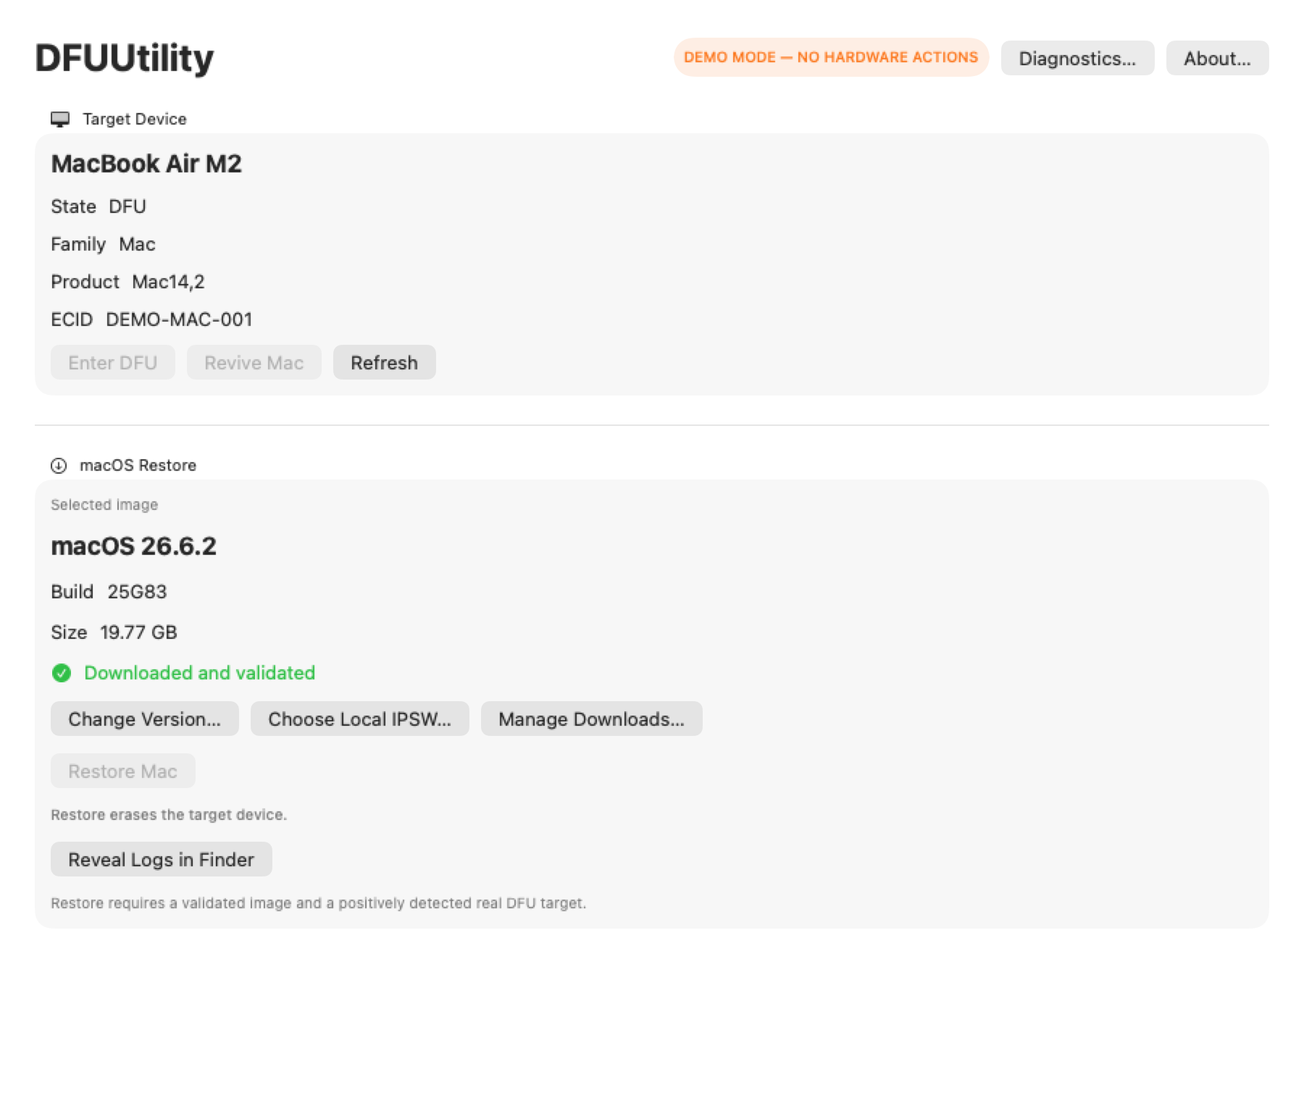
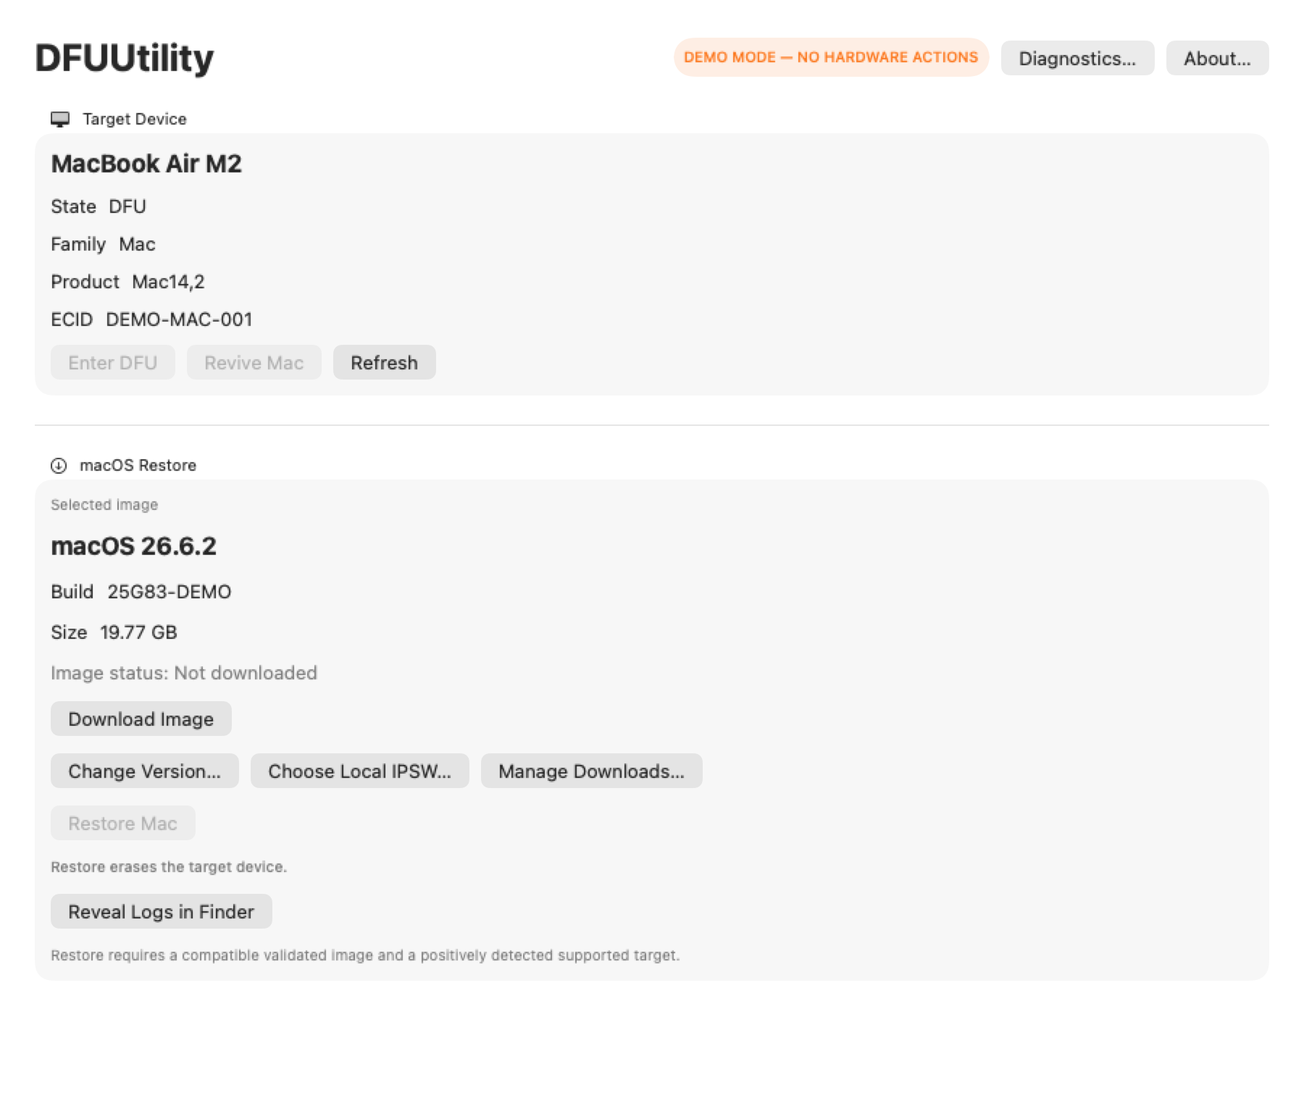
Add multi-device workflows and refresh demo screenshots

diff --git a/Sources/DFUAppSupport/AppModel.swift b/Sources/DFUAppSupport/AppModel.swift
@@ -317,6 +317,9 @@ public final class AppModel: ObservableObject {
     public var targetRestorePlatform: RestorePlatform { target?.family.restorePlatform ?? browsePlatform }
     public var restoreSectionTitle: String { isFirmwareLibraryMode ? "Firmware Library" : "\(targetRestorePlatform.displayName) Restore" }
     public var manageDownloadsAvailable: Bool { true }
+    public var shouldShowMissingDFUHelperWarning: Bool {
+        !isDemoMode && doctorReport?.status.host.macVDMToolPath == nil
+    }
     private var hasSyntheticProductionIdentity: Bool {
         guard !isDemoMode, let value = target?.ecid?.uppercased() else { return false }
         return value == "TEST" || value.hasPrefix("DEMO") || value.hasPrefix("TEST-")
@@ -349,39 +352,42 @@ public final class AppModel: ObservableObject {
     }
 
     private func configureScreenshot(_ scenario: String) {
-        let macRelease = IPSWRelease(version: "26.6.2", build: "25G83", downloadURL: URL(string: "https://updates.cdn-apple.com/demo-mac.ipsw")!, fileSize: 19_772_231_540, supportedDevices: ["Mac14,2"])
-        let iOSRelease = IPSWRelease(platform: .iOS, version: "12.5.8", build: "16H88", downloadURL: URL(string: "https://updates.cdn-apple.com/demo-ios.ipsw")!, fileSize: 4_321_000_000, supportedDevices: ["iPhone7,2"])
-        let iPadRelease = IPSWRelease(platform: .iPadOS, version: "18.7.10", build: "22H374", downloadURL: URL(string: "https://updates.cdn-apple.com/demo-ipados.ipsw")!, fileSize: 7_860_000_000, supportedDevices: ["iPad7,11"])
-        let release = scenario == "firmware-chooser" ? iPadRelease : (scenario == "download-progress" || scenario == "restore-progress" || scenario == "completed-restore" ? iOSRelease : macRelease)
-        let image = URL(fileURLWithPath: "/demo/(release.build)/Restore.ipsw")
-        availableReleases = [release]; selectedRelease = release; imageState = .ready(image); catalogueState = .loaded
-        imageChoices = [.init(release: release, isRecommended: true, cacheState: .downloaded(image), compatibility: .compatible(model: release.supportedDevices[0]))]
+        let macRelease = DemoFirmwareLibrary.catalogueReleases.first { $0.platform == .macOS }!
+        let latestIOS = DemoFirmwareLibrary.catalogueReleases.first { $0.platform == .iOS }!
+        let cachedIOS = DemoFirmwareLibrary.cachedEntries.first { $0.release.platform == .iOS }!.release
         doctorReport = DoctorReport(status: UtilityStatus(host: HostStatus(isAppleSilicon: true, macOSVersion: "26.6.1", macVDMToolPath: URL(fileURLWithPath: "/demo/macvdmtool"), cfgutilPath: URL(fileURLWithPath: "/demo/cfgutil")), targets: []), configuratorPresent: true, cacheDirectory: URL(fileURLWithPath: "/demo/cache"), cacheWritable: true, restoreSupported: true)
         switch scenario {
         case "normal-mac", "normal": targetDevices = [DFUDevice(state: .normal, model: "Mac14,2", ecid: "DEMO-MAC-001")]
         case "mac-dfu", "dfu": targetDevices = [DFUDevice(state: .dfu, model: "Mac14,2", ecid: "DEMO-MAC-001")]
         case "iphone-guided-dfu": targetDevices = [DFUDevice(family: .iPhone, state: .normal, model: "iPhone 6", ecid: "DEMO-PHONE-001", productType: "iPhone7,2")]
-        case "ipad-guided-dfu", "firmware-chooser": targetDevices = [DFUDevice(family: .iPad, state: .normal, model: "iPad (7th generation)", ecid: "DEMO-IPAD-001", productType: "iPad7,11")]
+        case "ipad-guided-dfu": targetDevices = [DFUDevice(family: .iPad, state: .normal, model: "iPad (7th generation)", ecid: "DEMO-IPAD-001", productType: "iPad7,11")]
+        case "firmware-chooser": browsePlatform = .iOS; targetDevices = []
         case "download-progress":
-            targetDevices = [DFUDevice(family: .iPhone, state: .normal, model: "iPhone 6", ecid: "DEMO-PHONE-001", productType: "iPhone7,2")]
-            imageState = .partial(1_850_000_000); downloadState = .downloading(completed: 1_850_000_000, total: 4_321_000_000, bytesPerSecond: 42_600_000)
+            targetDevices = [DFUDevice(family: .iPhone, state: .normal, model: "iPhone 14 Pro", ecid: "DEMO-PHONE-001", productType: "iPhone15,2")]
         case "restore-progress", "progress":
-            targetDevices = [DFUDevice(family: .iPhone, state: .dfu, model: "iPhone 6", ecid: "DEMO-PHONE-001", productType: "iPhone7,2")]
-            restoreState = .running(operation: "Restore", stage: "Installing System", stageIndex: 4, stageTotal: 4, fraction: 0.66)
+            targetDevices = [DFUDevice(family: .iPhone, state: .dfu, model: "iPhone 14 Pro", ecid: "DEMO-PHONE-001", productType: "iPhone15,2")]
         case "completed-restore", "completed":
-            targetDevices = [DFUDevice(family: .iPhone, state: .normal, model: "iPhone 6", ecid: "DEMO-PHONE-001", productType: "iPhone7,2")]
-            restoreState = .completed("Restore completed successfully. Target restarted.")
-        case "manage-downloads":
-            targetDevices = [DFUDevice(state: .normal, model: "Mac14,2", ecid: "DEMO-MAC-001")]
-            managedCacheEntries = [
-                .init(release: macRelease, state: .completeValidated, sizeBytes: macRelease.fileSize!, url: URL(fileURLWithPath: "/demo/cache/25G83/Restore.ipsw")),
-                .init(release: iOSRelease, state: .completeValidated, sizeBytes: iOSRelease.fileSize!, url: URL(fileURLWithPath: "/demo/cache/iOS/16H88/Restore.ipsw")),
-                .init(release: iPadRelease, state: .completeValidated, sizeBytes: iPadRelease.fileSize!, url: URL(fileURLWithPath: "/demo/cache/iPadOS/22H374/Restore.ipsw"))
-            ]
+            targetDevices = [DFUDevice(family: .iPhone, state: .normal, model: "iPhone 14 Pro", ecid: "DEMO-PHONE-001", productType: "iPhone15,2")]
+        case "multiple-devices": targetDevices = []; deviceSessions.configureDemo()
         default: targetDevices = []
         }
+        managedCacheEntries = DemoFirmwareLibrary.cachedEntries
+        validatedCacheEntries = Dictionary(uniqueKeysWithValues: managedCacheEntries.map { (FirmwareReleaseKey($0.release), $0) })
+        catalogueReleases = AppleIPSWService.sortNewestFirst(releasesForCurrentFirmwareContext(DemoFirmwareLibrary.catalogueReleases))
+        rebuildAvailableReleases()
+        if scenario == "download-progress" { selectedRelease = latestIOS }
+        else if scenario == "restore-progress" || scenario == "progress" || scenario == "completed-restore" || scenario == "completed" { selectedRelease = cachedIOS }
+        else { selectedRelease = availableReleases.first ?? macRelease }
+        refreshSelectedCacheState(); refreshImageChoices(); catalogueState = .loaded
+        if scenario == "download-progress" {
+            imageState = .partial(1_850_000_000); downloadState = .downloading(completed: 1_850_000_000, total: latestIOS.fileSize, bytesPerSecond: 42_600_000)
+        } else if scenario == "restore-progress" || scenario == "progress" {
+            restoreState = .running(operation: "Restore", stage: "Installing System", stageIndex: 4, stageTotal: 4, fraction: 0.66)
+        } else if scenario == "completed-restore" || scenario == "completed" {
+            restoreState = .completed("Restore completed successfully. Target restarted.")
+        }
         selectedTargetECID = targetDevices.count == 1 ? targetDevices[0].ecid : nil
-        deviceSessions.reconcile(targetDevices)
+        if scenario != "multiple-devices" { deviceSessions.reconcile(targetDevices) }
     }
 
     public func refreshCatalogue() async {
@@ -625,6 +631,7 @@ public final class AppModel: ObservableObject {
     }
 
     public func cacheRemovalDisabledReason(for entry: ManagedIPSWEntry) -> String? {
+        if isDemoMode { return "Demo firmware is read-only." }
         if case .downloading = downloadState, selectedRelease?.build == entry.release.build && selectedRelease?.platform == entry.release.platform { return "This image is currently downloading." }
         if case .validating = downloadState, selectedRelease?.build == entry.release.build && selectedRelease?.platform == entry.release.platform { return "This image is currently being validated." }
         let operationActive = if case .running = restoreState { true } else if case .reconnecting = restoreState { true } else { false }
@@ -715,6 +722,11 @@ public final class AppModel: ObservableObject {
     }
 
     private func loadManagedCache(knownReleases: [IPSWRelease]) async {
+        if isDemoMode {
+            managedCacheEntries = DemoFirmwareLibrary.cachedEntries
+            validatedCacheEntries = Dictionary(uniqueKeysWithValues: managedCacheEntries.map { (FirmwareReleaseKey($0.release), $0) })
+            return
+        }
         let cache = cache, validator = validator
         managedCacheEntries = (try? await Task.detached { try cache.managedEntries(validator: validator, knownReleases: knownReleases) }.value) ?? []
         validatedCacheEntries = Dictionary(uniqueKeysWithValues: managedCacheEntries.compactMap { entry in

diff --git a/Tests/DFUAppSupportTests/AppModelTests.swift b/Tests/DFUAppSupportTests/AppModelTests.swift
@@ -421,9 +421,58 @@ private let noOpLogger = AppMockLogger()
 }
 
 @Test @MainActor func activeDownloadTaskCancelsCleanly() async throws {
-    let app = AppModel(ipswService: DemoIPSWService(), discovery: AppMockDiscovery(values: []), cache: tempCache(), validator: AppMockValidator(valid: true), diagnostics: AppMockDiagnostics(), restoreEngine: AppMockRestore(), dfuController: AppMockDFU(), operationLogger: noOpLogger, requiresPrivilegedHelperSetup: false, isDemoMode: true)
+    let cache = tempCache()
+    let app = AppModel(ipswService: DemoIPSWService(), discovery: AppMockDiscovery(values: []), cache: cache, validator: AppMockValidator(valid: true), diagnostics: AppMockDiagnostics(), restoreEngine: AppMockRestore(), dfuController: AppMockDFU(), operationLogger: noOpLogger, requiresPrivilegedHelperSetup: false, isDemoMode: true)
     await app.load(); app.beginDownload(); try await Task.sleep(for: .milliseconds(180)); app.cancelDownload(); try await Task.sleep(for: .milliseconds(180))
     #expect(app.downloadState == .cancelled); #expect(app.imageURL == nil)
+    #expect(!FileManager.default.fileExists(atPath: cache.directory.path))
+}
+
+@Test func demoCatalogueCoversEveryPlatformAndFiltersCompatibleProducts() async throws {
+    let service = DemoIPSWService()
+    for platform in RestorePlatform.allCases {
+        let releases = try await service.availableImages(for: platform)
+        #expect(!releases.isEmpty)
+        #expect(releases.allSatisfy { $0.platform == platform })
+        #expect(releases.allSatisfy { $0.build.contains("DEMO") && $0.downloadURL.host == "firmware.demo.invalid" })
+    }
+    let phone = DFUDevice(family: .iPhone, state: .recovery, productType: "iPhone15,2")
+    let pad = DFUDevice(family: .iPad, state: .recovery, productType: "iPad13,18")
+    let mac = DFUDevice(family: .mac, state: .dfu, productType: "Mac14,2")
+    #expect(try await service.availableImages(for: phone).allSatisfy { $0.supportedDevices.contains("iPhone15,2") })
+    #expect(try await service.availableImages(for: pad).allSatisfy { $0.supportedDevices.contains("iPad13,18") })
+    #expect(try await service.availableImages(for: mac).allSatisfy { $0.supportedDevices.contains("Mac14,2") })
+    let incompatible = DFUDevice(family: .iPhone, state: .recovery, productType: "iPhone-DEMO-OTHER")
+    #expect(try await service.availableImages(for: incompatible).isEmpty)
+}
+
+@Test @MainActor func demoFirmwareLibraryMergesCatalogueAndInMemoryCacheAcrossPlatforms() async {
+    let cache = tempCache()
+    let app = AppModel(ipswService: DemoIPSWService(), discovery: AppMockDiscovery(values: []), cache: cache, validator: AppMockValidator(valid: true), diagnostics: AppMockDiagnostics(), restoreEngine: AppMockRestore(), dfuController: AppMockDFU(), operationLogger: noOpLogger, requiresPrivilegedHelperSetup: false, isDemoMode: true)
+    await app.load()
+
+    #expect(app.availableReleases.count == 2)
+    #expect(app.choice(for: app.availableReleases.first { $0.build == "25G83-DEMO" }!)?.isRecommended == true)
+    #expect(app.choice(for: app.availableReleases.first { $0.build == "25G83-DEMO" }!)?.cacheState == .downloadRequired)
+    #expect(app.choice(for: app.availableReleases.first { $0.build == "25F74-DEMO" }!)?.cacheState == .downloaded(URL(fileURLWithPath: "/demo/cache/macOS/25F74-DEMO/Restore.ipsw")))
+
+    await app.selectBrowsePlatform(.iOS)
+    #expect(app.availableReleases.map(\.build) == ["23G83-DEMO", "22H374-DEMO", "20H392-DEMO", "16H88-DEMO"])
+    #expect(app.availableReleases.filter { $0.build == "22H374-DEMO" }.count == 1)
+    #expect(app.choice(for: app.availableReleases[0])?.isRecommended == true)
+    #expect(app.choice(for: app.availableReleases[0])?.cacheState == .downloadRequired)
+    for build in ["22H374-DEMO", "20H392-DEMO", "16H88-DEMO"] {
+        let release = app.availableReleases.first { $0.build == build }!
+        if case .downloaded = app.choice(for: release)?.cacheState {} else { Issue.record("Expected \(build) to be a validated demo cache entry") }
+    }
+    let historical = app.availableReleases.first { $0.build == "16H88-DEMO" }!
+    app.selectRelease(historical)
+    #expect(app.imageURL == URL(fileURLWithPath: "/demo/cache/iOS/16H88-DEMO/Restore.ipsw"))
+
+    await app.selectBrowsePlatform(.iPadOS)
+    #expect(app.availableReleases.count == 2)
+    #expect(Set(app.managedCacheEntries.map(\.release.platform)) == Set(RestorePlatform.allCases))
+    #expect(!FileManager.default.fileExists(atPath: cache.directory.path))
 }
 
 @Test @MainActor func manualIPSWValidationSuccess() async {
@@ -579,10 +628,16 @@ private let noOpLogger = AppMockLogger()
 
 @Test @MainActor func demoLoadAndRefreshNeverInvokeInjectedHardwareDiscovery() async {
     let discovery = CountingAppDiscovery([DFUDevice(family: .iPhone, state: .normal, ecid: "REAL", productType: "iPhone7,2")])
-    let app = AppModel(ipswService: AppMockService(), discovery: discovery, cache: tempCache(), validator: AppMockValidator(valid: true), diagnostics: AppMockDiagnostics(), restoreEngine: AppMockRestore(), dfuController: AppMockDFU(), operationLogger: noOpLogger, requiresPrivilegedHelperSetup: false, isDemoMode: true)
+    let app = AppModel(ipswService: AppMockService(), discovery: discovery, cache: tempCache(), validator: AppMockValidator(valid: true), diagnostics: AppMockDiagnostics(macVDM: false), restoreEngine: AppMockRestore(), dfuController: AppMockDFU(), operationLogger: noOpLogger, requiresPrivilegedHelperSetup: false, isDemoMode: true)
     await app.load(); await app.refreshDiagnosticsAndTarget()
-    #expect(discovery.callCount == 0); #expect(app.targetDevices.isEmpty); #expect(app.deviceSessions.sessions.count == 4)
+    #expect(discovery.callCount == 0); #expect(app.targetDevices.isEmpty); #expect(app.deviceSessions.sessions.count == 4); #expect(!app.shouldShowMissingDFUHelperWarning)
     app.startBatchRestore(); #expect(app.presentedError?.contains("Demo mode") == true)
+}
+
+@Test @MainActor func normalModeStillReportsMissingDFUHelper() async {
+    let app = AppModel(ipswService: AppMockService(), discovery: AppMockDiscovery(values: []), cache: tempCache(), validator: AppMockValidator(valid: true), diagnostics: AppMockDiagnostics(macVDM: false), restoreEngine: AppMockRestore(), dfuController: AppMockDFU(), operationLogger: noOpLogger, requiresPrivilegedHelperSetup: false)
+    await app.load()
+    #expect(app.shouldShowMissingDFUHelperWarning)
 }
 
 @Test @MainActor func automaticMacDFURemainsSingleTargetOnly() async {

diff --git a/Sources/DFUAppSupport/DemoServices.swift b/Sources/DFUAppSupport/DemoServices.swift
@@ -1,11 +1,48 @@
 import DFUCore
 import Foundation
 
+public enum DemoFirmwareLibrary {
+    private static func url(_ name: String) -> URL { URL(string: "https://firmware.demo.invalid/\(name).ipsw")! }
+    private static func cacheURL(_ platform: RestorePlatform, _ build: String) -> URL {
+        URL(fileURLWithPath: "/demo/cache/\(platform.rawValue)/\(build)/Restore.ipsw")
+    }
+
+    public static let catalogueReleases: [IPSWRelease] = [
+        IPSWRelease(platform: .macOS, version: "26.6.2", build: "25G83-DEMO", downloadURL: url("macos-26.6.2"), fileSize: 19_772_231_540, supportedDevices: ["Mac14,2"]),
+        IPSWRelease(platform: .iOS, version: "26.6.1", build: "23G83-DEMO", downloadURL: url("ios-26.6.1"), fileSize: 8_420_000_000, supportedDevices: ["iPhone15,2"]),
+        IPSWRelease(platform: .iOS, version: "18.7.10", build: "22H374-DEMO", downloadURL: url("ios-18.7.10"), fileSize: 7_860_000_000, supportedDevices: ["iPhone15,2"]),
+        IPSWRelease(platform: .iPadOS, version: "26.6.1", build: "23G84-DEMO", downloadURL: url("ipados-26.6.1"), fileSize: 9_180_000_000, supportedDevices: ["iPad13,18"])
+    ]
+
+    public static let cachedEntries: [ManagedIPSWEntry] = {
+        let releases = [
+            IPSWRelease(platform: .macOS, version: "26.5", build: "25F74-DEMO", downloadURL: url("macos-26.5"), fileSize: 18_940_000_000, supportedDevices: ["Mac14,2"]),
+            catalogueReleases.first { $0.platform == .iOS && $0.build == "22H374-DEMO" }!,
+            IPSWRelease(platform: .iOS, version: "16.7.16", build: "20H392-DEMO", downloadURL: url("ios-16.7.16"), fileSize: 6_040_000_000, supportedDevices: ["iPhone15,2"]),
+            IPSWRelease(platform: .iOS, version: "12.5.8", build: "16H88-DEMO", downloadURL: url("ios-12.5.8"), fileSize: 4_320_000_000, supportedDevices: ["iPhone15,2"]),
+            IPSWRelease(platform: .iPadOS, version: "18.7.10", build: "22H374-IPAD-DEMO", downloadURL: url("ipados-18.7.10"), fileSize: 7_920_000_000, supportedDevices: ["iPad13,18"])
+        ]
+        return releases.map { release in
+            ManagedIPSWEntry(release: release, state: .completeValidated, sizeBytes: release.fileSize ?? 0,
+                url: cacheURL(release.platform, release.build))
+        }
+    }()
+}
+
 public struct DemoIPSWService: IPSWService {
     public let releases: [IPSWRelease]
-    public init() { releases = [IPSWRelease(version: "26.6.2", build: "25G83-DEMO", downloadURL: URL(string: "https://updates.cdn-apple.com/demo.ipsw")!, fileSize: 19_772_231_540, supportedDevices: ["DemoMac"])] }
-    public func availableImages(for device: DFUDevice?) async throws -> [IPSWRelease] { releases }
-    public func recommendedImage(for device: DFUDevice?) async throws -> IPSWRelease { releases[0] }
+    public init() { releases = DemoFirmwareLibrary.catalogueReleases }
+    public func availableImages(for device: DFUDevice?) async throws -> [IPSWRelease] {
+        let platformFiltered = device.map { device in releases.filter { $0.platform == device.family.restorePlatform } } ?? releases
+        let compatible = device?.restoreProductType.map { product in
+            platformFiltered.filter { $0.supportedDevices.contains(product) }
+        } ?? platformFiltered
+        return AppleIPSWService.sortNewestFirst(compatible)
+    }
+    public func recommendedImage(for device: DFUDevice?) async throws -> IPSWRelease {
+        guard let release = try await availableImages(for: device).first else { throw IPSWServiceError.noReleases }
+        return release
+    }
     public func download(_ release: IPSWRelease, progress: @escaping @Sendable (DownloadProgress) -> Void) async throws -> URL { throw CancellationError() }
     public func downloadEvents(_ release: IPSWRelease) -> AsyncThrowingStream<DownloadEvent, Error> {
         AsyncThrowingStream { continuation in

diff --git a/Sources/DFUUtilityApp/ContentView.swift b/Sources/DFUUtilityApp/ContentView.swift
@@ -104,7 +104,7 @@ struct ContentView: View {
                     EmptyView()
                 }
                 if model.macDFUMultiTargetUnavailable { Text("Automatic Mac Enter DFU is available only when exactly one target is connected because macvdmtool cannot select a specific Mac.").font(.caption).foregroundStyle(.orange) }
-                if model.doctorReport?.status.host.macVDMToolPath == nil { Text("The bundled DFU helper is unavailable. Rebuild the application or view Diagnostics.").font(.caption).foregroundStyle(.secondary) }
+                if model.shouldShowMissingDFUHelperWarning { Text("The bundled DFU helper is unavailable. Rebuild the application or view Diagnostics.").font(.caption).foregroundStyle(.secondary) }
             }.frame(maxWidth: .infinity, alignment: .leading).padding(6)
         } label: { Label("Target Device", systemImage: model.target?.family == .mac ? "desktopcomputer" : "iphone") }
     }
@@ -324,15 +324,19 @@ private struct BatchRestoreControls: View {
         VStack(alignment: .leading, spacing: 8) {
             Divider()
             Text("Sequential Batch").font(.headline)
-            HStack {
+            HStack(spacing: 8) {
                 Button("Use Latest Compatible Firmware") { Task { await model.useLatestCompatibleFirmwareForSelectedSessions() } }
                 Button("Use Current Firmware for Selected") { model.applyCurrentFirmwareToSelectedSessions() }
+            }
+            .fixedSize(horizontal: true, vertical: false)
+            HStack(spacing: 8) {
                 Button("Restore \(sessions.selectedSessions.count) Devices", role: .destructive) { confirming = true }
                     .disabled(!coordinator.canStartRestore || model.isDemoMode)
                 Button("Revive Selected") { model.startBatch(.revive) }.disabled(!coordinator.canStart(.revive) || model.isDemoMode)
                 Button("Restart Selected") { model.startBatch(.restart) }.disabled(!coordinator.canStart(.restart) || model.isDemoMode)
                 if coordinator.isRunning { Button("Stop After Current Device") { model.stopBatchAfterCurrentTarget() } }
             }
+            .fixedSize(horizontal: true, vertical: false)
             if !coordinator.selectedEligibilityFailures(for: .restore).isEmpty {
                 Text("Every selected device must be ready. \(coordinator.selectedEligibilityFailures(for: .restore).count) selected device(s) are blocked for Restore.").font(.caption).foregroundStyle(.orange)
             }

diff --git a/Sources/DFUUtilityApp/DFUUtilityApp.swift b/Sources/DFUUtilityApp/DFUUtilityApp.swift
@@ -32,12 +32,15 @@ final class AppDelegate: NSObject, NSApplicationDelegate {
             size = NSSize(width: 620, height: 450)
         } else if scenario == "manage-downloads" {
             root = AnyView(CacheManagerView(model: model, isPresented: .constant(true)))
-            size = NSSize(width: 800, height: 600)
+            size = NSSize(width: 800, height: 800)
         } else if scenario == "iphone-guided-dfu" || scenario == "ipad-guided-dfu" {
             guard model.prepareMobileDFUAssistant(), let assistant = model.mobileDFUAssistant else { NSApp.terminate(nil); return }
             assistant.setDemoState(.detectedDFU)
             root = AnyView(MobileDFUAssistantView(model: assistant, isPresented: .constant(true)))
             size = NSSize(width: 700, height: 600)
+        } else if scenario == "multiple-devices" {
+            root = AnyView(ContentView(model: model))
+            size = NSSize(width: 1040, height: 1000)
         } else {
             root = AnyView(ContentView(model: model))
             size = NSSize(width: 900, height: 760)

diff --git a/README.md b/README.md
@@ -2,7 +2,7 @@
 
 DFUUtility is an open-source native macOS utility for entering supported Macs into DFU mode and restoring or reviving Apple devices with Apple IPSWs.
 
-![DFUUtility with a connected Mac](docs/images/normal-mac.png)
+![DFUUtility multi-device workflow](docs/images/multiple-devices.png)
 
 Version 0.6.1 is a focused patch release improving post-operation state recovery, Mac Enter DFU error handling, and Community installation. Community builds are local and ad-hoc signed; no paid Apple Developer account is required.
 
@@ -49,15 +49,19 @@ Batch execution is intentionally sequential in this first implementation. Parall
 
 | Guided iPhone DFU | Guided iPad DFU |
 | --- | --- |
-| ![iPhone 6 guided DFU](docs/images/iphone-guided-dfu.png) | ![iPad guided DFU](docs/images/ipad-guided-dfu.png) |
+| ![Guided iPhone DFU](docs/images/iphone-guided-dfu.png) | ![Guided iPad DFU](docs/images/ipad-guided-dfu.png) |
 
-| Firmware chooser | Download progress | Restore progress |
-| --- | --- | --- |
-| ![Compatible firmware chooser](docs/images/firmware-chooser.png) | ![Firmware download progress](docs/images/download-progress.png) | ![Structured Restore progress](docs/images/restore-progress.png) |
-
-| Manage Downloads | Completed Restore |
+| Firmware chooser | Manage Downloads |
 | --- | --- |
-| ![Managed firmware cache](docs/images/manage-downloads.png) | ![Completed Restore and returned target](docs/images/completed-restore.png) |
+| ![Compatible firmware chooser](docs/images/firmware-chooser.png) | ![Managed firmware cache](docs/images/manage-downloads.png) |
+
+| Download progress | Restore progress |
+| --- | --- |
+| ![Firmware download progress](docs/images/download-progress.png) | ![Structured Restore progress](docs/images/restore-progress.png) |
+
+| Completed Restore |
+| --- |
+| ![Completed Restore and returned target](docs/images/completed-restore.png) |
 
 All screenshots use deterministic fictional data; they contain no real device or user identifiers.
 
